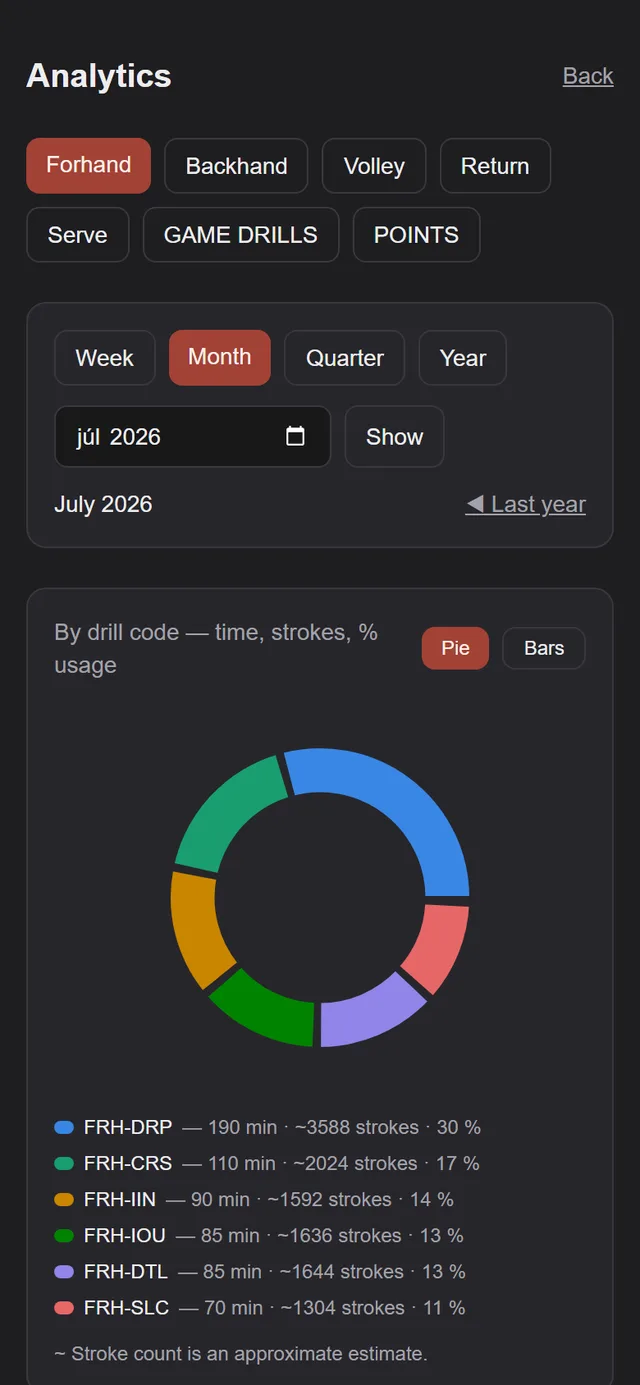
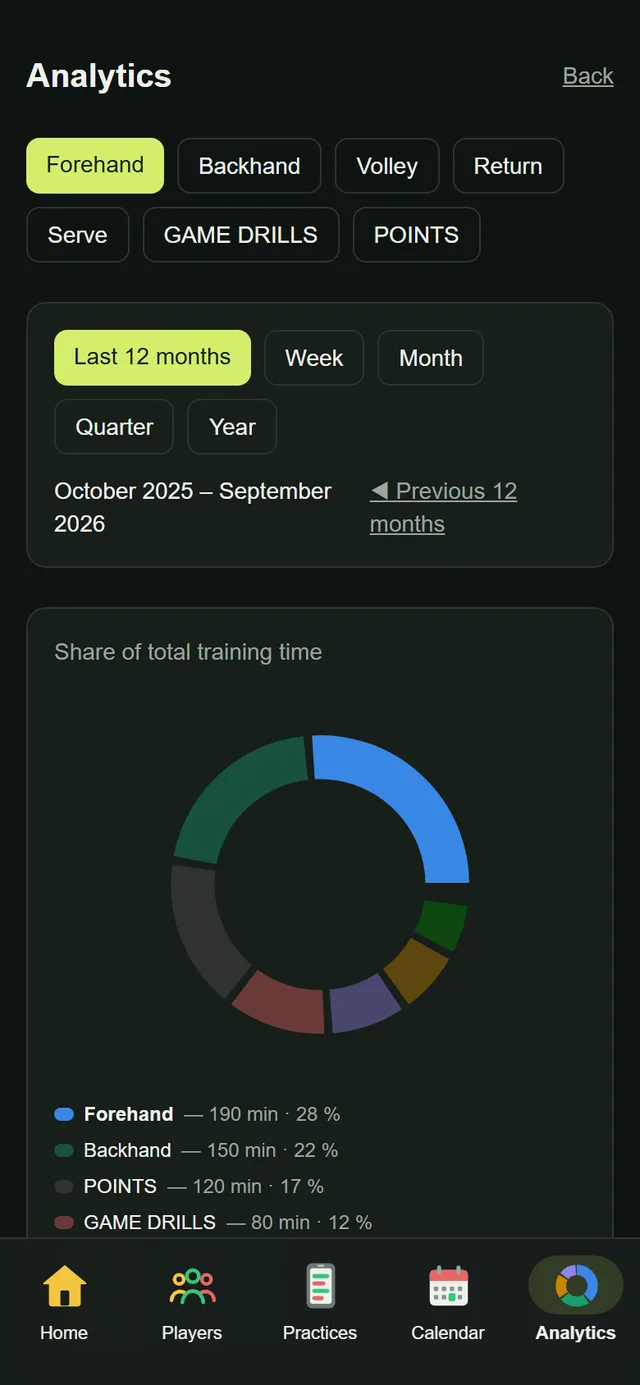
Snímky na landingu ukazujú appku po redizajne, nie antukovú
Tri zábery v showcase sekcii (kalendár, detail tréningu, analytika) boli
z 27. 7. a ukazovali antukový vzhľad. Po redizajne z 21. 9. teda landing
sľuboval niečo iné, než návštevník v appke uvidí.

Fotí ich odteraz skript `scripts/landing-shots.js` — spúšťa sa ručne,
rovnako ako sady v dev-tests a s tým istým dočasným Playwrightom.
Účet je `demo@plaw.win` zo seedu, telefón 390 × 844 pri dvojnásobnej
hustote, výstup 640 px WebP, čo je presne rámček na landingu.

Dve adresy sú zámerne konkrétnejšie, než na čo sa v appke klikne:
kalendár sa fotí v MESAČNOM pohľade (týždenný býva takmer prázdny, kým
popisok sľubuje prehľadný kalendár) a analytika s konkrétnym zameraním —
`/analytics` samo o sebe neexistuje, je to `/analytics/[category]`
a bez neho sa vyfotila stránka 404.

`.landing-shots/` (medzikrok v PNG) je v .gitignore.

diff --git a/scripts/landing-shots.js b/scripts/landing-shots.js
@@ -1,0 +1,113 @@
+// Prefotí tri snímky obrazovky pre landing (`public/screenshots/en/`).
+//
+// Landing ukazuje appku na telefóne — kalendár, detail tréningu a analytiku.
+// Snímky z 27. 7. 2026 ukazovali ANTUKOVÝ vzhľad a po redizajne (21. 9.)
+// prestali sedieť s tým, čo návštevník v appke naozaj uvidí.
+//
+// Spúšťa sa RUČNE a potrebuje dočasný Playwright, rovnako ako sady
+// v `scripts/dev-tests/` (viď ich README):
+//   npm install --no-save playwright
+//   npx supabase start && node scripts/dev-tests/seed.js
+//   npm run dev
+//   node scripts/landing-shots.js
+//
+// Fotí sa účet `demo@plaw.win` zo seedu — jeden hráč, jedenásť odohraných
+// tréningov za posledných deväť týždňov. Analytika sa predvolene pozerá na
+// AKTUÁLNY MESIAC, takže v ňom musia byť dáta; seed to drží (offsety -3 až
+// -28 dní padnú do tohto mesiaca) — ale ak sa fotí prvého v mesiaci, preseeduj.
+const fs = require("node:fs");
+const path = require("node:path");
+const { chromium } = require("playwright");
+const sharp = require("sharp");
+const {
+  APP_HOST,
+  chromiumArgs,
+  browserLogin,
+  serviceClient,
+} = require("./dev-tests/helpers");
+
+const BASE = `http://${APP_HOST}`;
+const OUT = path.join(__dirname, "..", "public", "screenshots", "en");
+const TMP = path.join(__dirname, "..", ".landing-shots");
+
+// Rozmer zodpovedá rámčeku na landingu (`width={640} height={1385}`), teda
+// pomeru telefónu 390 × 844. Fotí sa pri dvojnásobnej hustote a zmenšuje na
+// 640 — tak vyzerá ostro aj na retina displeji.
+const VIEWPORT = { width: 390, height: 844 };
+const SCALE = 2;
+const OUT_WIDTH = 640;
+
+async function main() {
+  fs.mkdirSync(TMP, { recursive: true });
+  fs.mkdirSync(OUT, { recursive: true });
+
+  // Detail sa fotí na konkrétnom tréningu, takže si jeho id treba vypýtať.
+  const db = serviceClient();
+  const { data: users } = await db.auth.admin.listUsers({ perPage: 1000 });
+  const coach = users.users.find((u) => u.email === "demo@plaw.win");
+  if (!coach) throw new Error("demo@plaw.win neexistuje — spusti seed.js");
+  // Dátum tréningu nie je stĺpec, býva v JSON (`actual_data.date`) — radiť
+  // sa teda musí až v pamäti. Berie sa NAJNOVŠÍ dokončený, nech snímka
+  // ukazuje čerstvý záznam a nie dva mesiace starý.
+  const { data: sessions } = await db
+    .from("sessions")
+    .select("id, actual_data")
+    .eq("coach_id", coach.id)
+    .eq("status", "completed");
+  if (!sessions?.length) throw new Error("žiadny dokončený tréning — spusti seed.js");
+  const sessionId = sessions
+    .slice()
+    .sort((a, b) =>
+      String(b.actual_data?.date ?? "").localeCompare(String(a.actual_data?.date ?? "")),
+    )[0].id;
+
+  const browser = await chromium.launch({ args: chromiumArgs() });
+  const context = await browser.newContext({
+    viewport: VIEWPORT,
+    deviceScaleFactor: SCALE,
+    isMobile: true,
+    hasTouch: true,
+  });
+  await context.addCookies([
+    { name: "NEXT_TIMEZONE", value: "Europe/Bratislava", url: BASE },
+  ]);
+  const page = await context.newPage();
+
+  // Vývojový odznak Next.js je fixný v rohu a na snímke by ostal.
+  await page.addStyleTag({ content: "nextjs-portal{display:none !important}" }).catch(() => {});
+
+  await browserLogin(page, "demo@plaw.win", BASE);
+
+  // Adresy sú zámerne konkrétnejšie, než na aké sa klikne v appke:
+  //  - kalendár sa predvolene otvára na TÝŽDEŇ, kde býva pár riadkov;
+  //    mesiac ukazuje mriežku s farebnými dňami, čo je to, čo popisok
+  //    pod snímkou sľubuje („A clear training calendar");
+  //  - `/analytics` samo o sebe NEEXISTUJE, je to `/analytics/[category]`
+  //    (spodná lišta doň dopĺňa predvolené zameranie disciplíny) — bez
+  //    zamerania sa vyfotí stránka 404.
+  const shots = [
+    ["calendar", "/calendar?view=month"],
+    ["session", `/sessions/${sessionId}`],
+    ["analytics", "/analytics/Forehand"],
+  ];
+
+  for (const [name, route] of shots) {
+    await page.goto(`${BASE}${route}`);
+    await page.waitForLoadState("networkidle").catch(() => {});
+    // Grafy v analytike sa dokresľujú po hydratácii.
+    await page.waitForTimeout(1200);
+    await page.addStyleTag({ content: "nextjs-portal{display:none !important}" }).catch(() => {});
+    const png = path.join(TMP, `${name}.png`);
+    await page.screenshot({ path: png });
+    await sharp(png).resize({ width: OUT_WIDTH }).webp({ quality: 82 }).toFile(path.join(OUT, `${name}.webp`));
+    console.log("hotovo:", name, route);
+  }
+
+  await browser.close();
+  console.log("\nsnímky sú v", OUT);
+}
+
+main().catch((e) => {
+  console.error("CHYBA:", e.message || e);
+  process.exit(1);
+});
